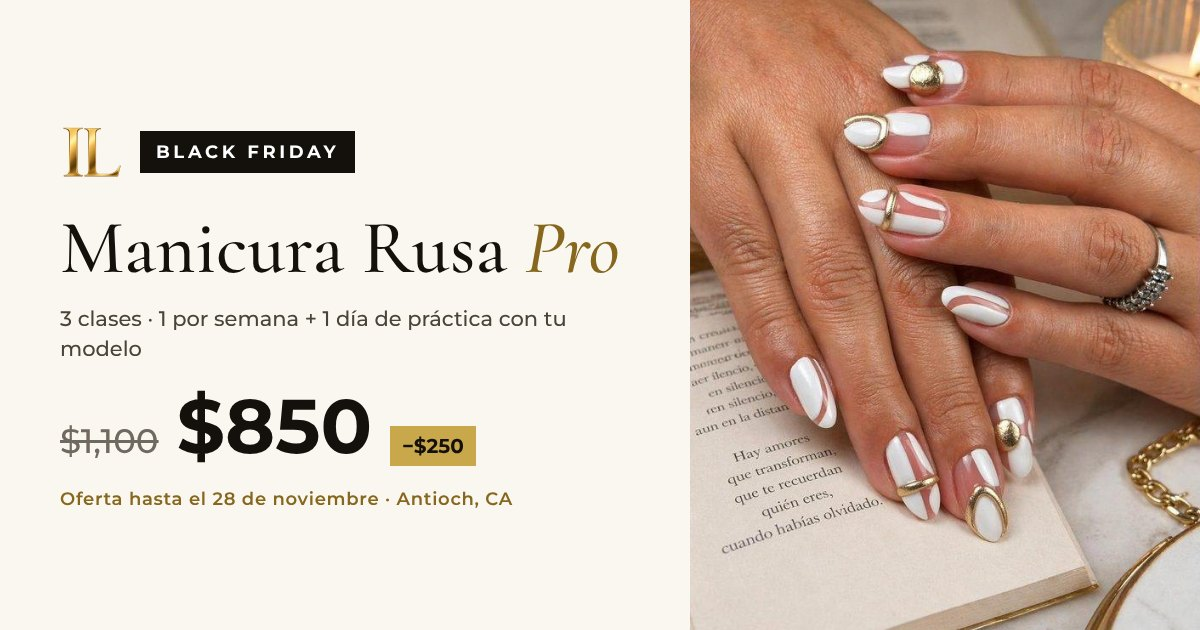
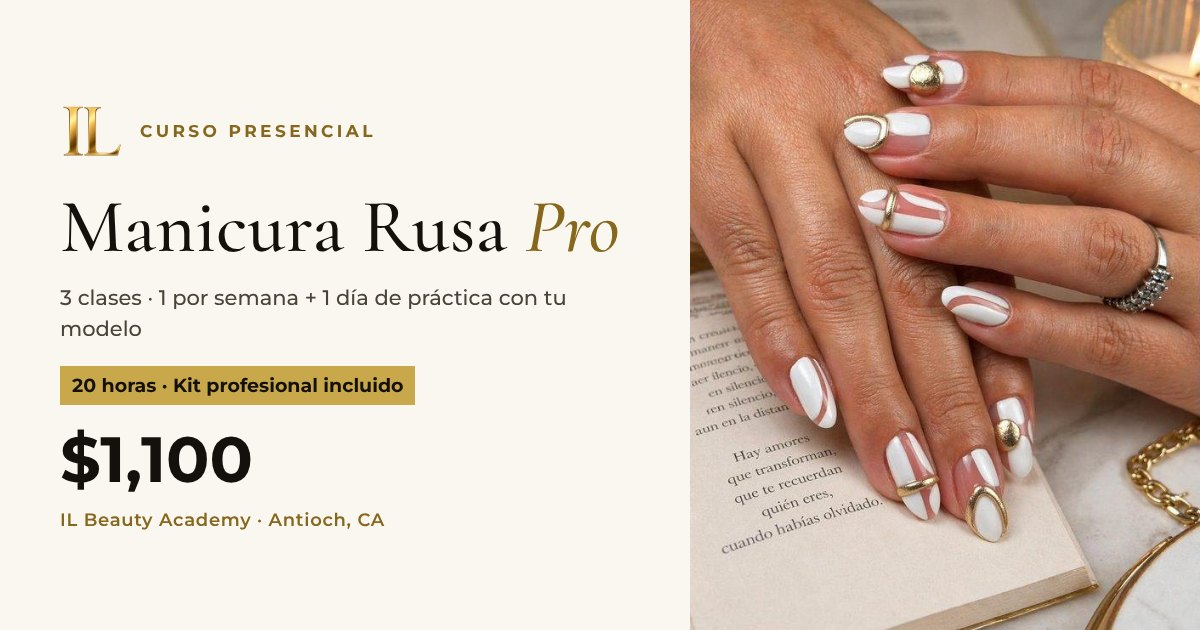
Quitar la promocion de Black Friday (Manicura Rusa Pro a $1,100)
- /manicura-rusa-pro: sin etiqueta, precio tachado, contador, terminos,
  aviso de oferta ni pregunta de Black Friday; precio $1,100; WhatsApp
  con el mensaje normal; titulo, descripcion e imagen para compartir sin
  la oferta; ViewContent con valor 1100; barra fija ajustada para que
  quepan el precio y el boton.
- /cursos: se quita la etiqueta 'Black Friday: $850 · Ver oferta'.
- /links: el boton destacado muestra $1,100 y '20 horas de clase y
  practica · Kit incluido'.

Claude-Session: https://claude.ai/code/session_01WgTQiBmTG7qmgM6AnjaGsQ

Changed region(s): [[0.0308, 0.3016, 0.5242, 0.8444], [0.0308, 0.1508, 0.3083, 0.3016]]

diff --git a/manicura-rusa-pro/index.html b/manicura-rusa-pro/index.html
@@ -5,20 +5,20 @@
 <meta name="viewport" content="width=device-width, initial-scale=1.0"/>
 <meta name="color-scheme" content="light only"/>
 <meta name="supported-color-schemes" content="light"/>
-<title>Manicura Rusa Pro · Black Friday $850 · IL Beauty Academy</title>
+<title>Manicura Rusa Pro · IL Beauty Academy</title>
 <link rel="icon" type="image/png" sizes="32x32" href="/img/icon-32.png?v=3"/>
 <link rel="apple-touch-icon" sizes="180x180" href="/img/icon-180.png?v=3"/>
 <meta name="theme-color" content="#14110d"/>
 <meta property="og:type" content="website"/>
 <meta property="og:site_name" content="IL Beauty Academy"/>
-<meta property="og:title" content="Manicura Rusa Pro · Black Friday $850 (antes $1,100)"/>
-<meta property="og:description" content="3 clases (1 por semana) + 1 día de práctica con tu modelo. Oferta hasta el sábado 28 de noviembre."/>
+<meta property="og:title" content="Manicura Rusa Pro · IL Beauty Academy"/>
+<meta property="og:description" content="20 horas de clase y práctica · 3 clases (1 por semana) + 1 día de práctica con tu modelo · Kit profesional incluido."/>
 <meta property="og:url" content="https://ilbeautyacademy.com/manicura-rusa-pro/"/>
-<meta property="og:image" content="https://ilbeautyacademy.com/img/og-manicura-rusa-pro.jpg"/>
+<meta property="og:image" content="https://www.ilbeautyacademy.com/img/og-manicura-rusa-pro.jpg?v=2"/>
 <meta property="og:image:width" content="1200"/>
 <meta property="og:image:height" content="630"/>
 <meta name="twitter:card" content="summary_large_image"/>
-<meta name="description" content="Black Friday: Manicura Rusa Pro de $1,100 a $850. 3 clases (1 por semana) + 1 día de práctica con tu modelo en Antioch, CA. Oferta hasta el 28 de noviembre."/>
+<meta name="description" content="Curso de Manicura Rusa Pro en Antioch, CA: 20 horas de clase y práctica, 3 clases (1 por semana) + 1 día de práctica con tu modelo. Kit profesional incluido. $1,100."/>
 <link href="https://fonts.googleapis.com/css2?family=Cormorant+Garamond:ital,wght@0,300;0,400;0,500;0,600;1,300;1,400;1,500&family=Montserrat:wght@300;400;500;600;700&display=swap" rel="stylesheet"/>
 <style>
   :root{
@@ -307,6 +307,7 @@
   }
   .bf-deposit{font-size:.95rem;line-height:1.6;color:var(--ink);background:#fff;border:1px dashed var(--gold);padding:.65rem .9rem;margin:-.4rem 0 1.4rem;max-width:520px;}
   .bf-deposit strong{font-weight:700;}
+  @media (max-width:768px){ .bf-sticky .bf-sticky-txt{white-space:normal;min-width:0;font-size:.88rem;line-height:1.3;} .bf-sticky .bf-sticky-btn{flex:none;} }
 </style>
 <link rel="stylesheet" href="/typography.css?v=2"/>
 <link rel="stylesheet" href="/site.css?v=19"/>
@@ -321,7 +322,7 @@ t.src=v;s=b.getElementsByTagName(e)[0];s.parentNode.insertBefore(t,s)}(window,
 document,'script','https://connect.facebook.net/en_US/fbevents.js');
 fbq('init',window.IL_PIXEL_ID);
 fbq('track','PageView');
-fbq('track','ViewContent',{content_name:'Manicura Rusa Pro',content_category:'Curso',value:850,currency:'USD'});
+fbq('track','ViewContent',{content_name:'Manicura Rusa Pro',content_category:'Curso',value:1100,currency:'USD'});
 }
 </script>
 <noscript><img height="1" width="1" style="display:none" alt="" src="https://www.facebook.com/tr?id=1121499000759709&ev=PageView&noscript=1"/></noscript>
@@ -345,41 +346,27 @@ fbq('track','ViewContent',{content_name:'Manicura Rusa Pro',content_category:'Cu
 </nav>
 
 <main class="bf">
-<!-- OFERTA BLACK FRIDAY: MANICURA RUSA PRO -->
+<!-- MANICURA RUSA PRO -->
 <section class="bf-hero">
   <div class="wrap bf-grid">
     <div class="bf-photo">
       <img src="/img/manicura-rusa.jpg?v=2" alt="Manicura Rusa Pro en IL Beauty Academy" width="600" height="800" fetchpriority="high"/>
-      <span class="bf-badge bf-on">Black Friday</span>
     </div>
     <div class="bf-info">
-      <span class="eyebrow">Oferta Black Friday · Antioch, California</span>
+      <span class="eyebrow" data-en="In-person course · Antioch, California">Curso presencial · Antioch, California</span>
       <h1 class="display">Manicura Rusa <em>Pro</em></h1>
       <p class="bf-highlight">20 horas de clase y práctica · Kit profesional incluido (valor $125)</p>
       <p class="bf-format">3 clases · 1 día por semana · 5 horas por día<br/><strong>+ 1 día extra de práctica en la academia con tu modelo</strong></p>
-      <div class="bf-price bf-on"><span class="bf-old">$1,100</span><span class="bf-new">$850</span><span class="bf-save">Ahorras $250</span></div>
-      <div class="bf-price bf-off"><span class="bf-new">$1,100</span></div>
+      <div class="bf-price"><span class="bf-new">$1,100</span></div>
       <p class="bf-deposit" data-en="💳 Save your spot with &lt;strong&gt;$200&lt;/strong&gt;. Pay the rest no later than your second class.">💳 Separa tu cupo con <strong>$200</strong>. El resto lo pagas a más tardar en tu segunda clase.</p>
       <div class="bf-flex">
         <div class="bf-flex-items"><span>📅 Tú eliges cuándo empezar</span><span>👩🏫 Clase personalizada o grupal</span></div>
         <p>El curso comienza cuando tú te inscribas. Elige tu día de clase y lo ajustamos a tu horario, en clase personalizada o en grupo.</p>
       </div>
-      <div class="bf-count bf-on" aria-live="polite">
-        <div class="bf-count-label">La oferta termina en</div>
-        <div class="bf-boxes">
-          <div><b data-u="d">00</b><span>Días</span></div>
-          <div><b data-u="h">00</b><span>Horas</span></div>
-          <div><b data-u="m">00</b><span>Min</span></div>
-          <div><b data-u="s">00</b><span>Seg</span></div>
-        </div>
-      </div>
-      <div class="bf-ended bf-off"><strong>La oferta de Black Friday terminó.</strong> Escríbenos para conocer las próximas fechas y promociones.</div>
       <div class="bf-ctas">
-        <a class="btn btn-gold bf-on" href="https://wa.me/19253908288?text=Hola%2C%20quiero%20reservar%20Manicura%20Rusa%20Pro%20con%20el%20descuento%20de%20Black%20Friday%20(%24850)" target="_blank" rel="noopener">Reservar con descuento</a>
-        <a class="btn btn-gold bf-off" href="https://wa.me/19253908288?text=Hola%2C%20quiero%20reservar%20mi%20lugar%20en%20Manicura%20Rusa%20Pro" target="_blank" rel="noopener">Reservar por WhatsApp</a>
+        <a class="btn btn-gold" href="https://wa.me/19253908288?text=Hola%2C%20quiero%20reservar%20mi%20lugar%20en%20Manicura%20Rusa%20Pro" target="_blank" rel="noopener">Reservar por WhatsApp</a>
         <a class="btn btn-ghost" href="sms:+19253908288">Enviar texto · (925) 390-8288</a>
       </div>
-      <p class="bf-terms bf-on">Oferta válida hasta el sábado 28 de noviembre de 2026, 11:59 PM (hora de California). Cupos limitados.</p>
     </div>
   </div>
 </section>
@@ -452,10 +439,8 @@ fbq('track','ViewContent',{content_name:'Manicura Rusa Pro',content_category:'Cu
       </div>
     </div>
     <div class="bf-bottom reveal">
-      <div class="bf-price bf-on"><span class="bf-old">$1,100</span><span class="bf-new">$850</span></div>
       <div class="bf-ctas bf-center">
-        <a class="btn btn-gold bf-on" href="https://wa.me/19253908288?text=Hola%2C%20quiero%20reservar%20Manicura%20Rusa%20Pro%20con%20el%20descuento%20de%20Black%20Friday%20(%24850)" target="_blank" rel="noopener">Reservar con descuento</a>
-        <a class="btn btn-gold bf-off" href="https://wa.me/19253908288?text=Hola%2C%20quiero%20reservar%20mi%20lugar%20en%20Manicura%20Rusa%20Pro" target="_blank" rel="noopener">Reservar por WhatsApp</a>
+        <a class="btn btn-gold" href="https://wa.me/19253908288?text=Hola%2C%20quiero%20reservar%20mi%20lugar%20en%20Manicura%20Rusa%20Pro" target="_blank" rel="noopener">Reservar por WhatsApp</a>
         <a class="btn btn-ghost" href="sms:+19253908288">Enviar texto · (925) 390-8288</a>
       </div>
       <a class="bf-all" href="/cursos/">Ver todos los cursos →</a>
@@ -524,9 +509,8 @@ fbq('track','ViewContent',{content_name:'Manicura Rusa Pro',content_category:'Cu
       <details class="faq"><summary>¿Cuánto duran las clases? <span class="plus">+</span></summary><div class="ans">3 clases, una por semana, de 5 horas cada una, más 1 día extra de práctica en la academia con tu propia modelo.</div></details>
       <details class="faq"><summary>¿Qué incluye? <span class="plus">+</span></summary><div class="ans">20 horas de clase y práctica. Kit profesional, manual de estudio, materiales de práctica, certificado de participación, coffee break y apoyo después del curso.</div></details>
       <details class="faq"><summary>¿Tengo que llevar modelo? <span class="plus">+</span></summary><div class="ans">Solo para el día extra de práctica.</div></details>
-      <details class="faq"><summary>¿Hasta cuándo es el precio de Black Friday? <span class="plus">+</span></summary><div class="ans">Hasta el sábado 28 de noviembre de 2026 a las 11:59 PM (hora de California).</div></details>
       <details class="faq"><summary data-en="How do I pay? &lt;span class=&quot;plus&quot;&gt;+&lt;/span&gt;">¿Cómo pago? <span class="plus">+</span></summary><div class="ans" data-en="Save your spot with $200 and pay the rest no later than your second class. We are flexible with how you pay.">Separas tu cupo con $200 y el resto lo pagas a más tardar en tu segunda clase. Somos flexibles con la forma de pago.</div></details>
-      <details class="faq"><summary>¿Cómo reservo mi lugar? <span class="plus">+</span></summary><div class="ans">Escríbenos por WhatsApp al <a href="https://wa.me/19253908288?text=Hola%2C%20quiero%20reservar%20Manicura%20Rusa%20Pro%20con%20el%20descuento%20de%20Black%20Friday%20(%24850)" target="_blank" rel="noopener">(925) 390-8288</a>.</div></details>
+      <details class="faq"><summary>¿Cómo reservo mi lugar? <span class="plus">+</span></summary><div class="ans">Escríbenos por WhatsApp al <a href="https://wa.me/19253908288?text=Hola%2C%20quiero%20reservar%20mi%20lugar%20en%20Manicura%20Rusa%20Pro" target="_blank" rel="noopener">(925) 390-8288</a>.</div></details>
     </div>
   </div>
 </section>
@@ -534,28 +518,10 @@ fbq('track','ViewContent',{content_name:'Manicura Rusa Pro',content_category:'Cu
 
 <!-- Barra fija para reservar (solo celular) -->
 <div class="bf-sticky" role="region" aria-label="Reservar">
-  <span class="bf-sticky-txt bf-on">$850 · Black Friday</span>
-  <span class="bf-sticky-txt bf-off">Manicura Rusa Pro · $1,100</span>
-  <a class="bf-sticky-btn bf-on" href="https://wa.me/19253908288?text=Hola%2C%20quiero%20reservar%20Manicura%20Rusa%20Pro%20con%20el%20descuento%20de%20Black%20Friday%20(%24850)" target="_blank" rel="noopener">Reservar con descuento</a>
-  <a class="bf-sticky-btn bf-off" href="https://wa.me/19253908288?text=Hola%2C%20quiero%20reservar%20mi%20lugar%20en%20Manicura%20Rusa%20Pro" target="_blank" rel="noopener">Reservar por WhatsApp</a>
+  <span class="bf-sticky-txt">Manicura Rusa Pro · $1,100</span>
+  <a class="bf-sticky-btn" href="https://wa.me/19253908288?text=Hola%2C%20quiero%20reservar%20mi%20lugar%20en%20Manicura%20Rusa%20Pro" target="_blank" rel="noopener">Reservar por WhatsApp</a>
 </div>
 
-<script>
-/* Conteo regresivo: la oferta termina el sábado 28/11/2026 a las 11:59:59 PM hora de California */
-(function(){
-  var END=Date.parse('2026-11-29T07:59:59Z');
-  var els={};[].forEach.call(document.querySelectorAll('.bf-boxes b'),function(b){els[b.getAttribute('data-u')]=b;});
-  function pad(n){return (n<10?'0':'')+n;}
-  function tick(){
-    var left=END-Date.now();
-    if(left<=0){document.body.classList.add('bf-over');clearInterval(t);return;}
-    var s=Math.floor(left/1000);
-    els.d.textContent=pad(Math.floor(s/86400));els.h.textContent=pad(Math.floor(s%86400/3600));
-    els.m.textContent=pad(Math.floor(s%3600/60));els.s.textContent=pad(s%60);
-  }
-  var t=setInterval(tick,1000);tick();
-})();
-</script>
 
 
 <!-- FOOTER -->

diff --git a/cursos/index.html b/cursos/index.html
@@ -440,7 +440,6 @@ fbq('track','PageView');
           <h3>Manicura Rusa Pro</h3>
           <div class="course-sub">3 días (1 por semana) · 5 horas por día + 1 día de práctica con modelo</div>
           <div class="course-price">$1,100</div>
-          <a class="bf-chip bf-on" href="/manicura-rusa-pro/">Black Friday: $850 · Ver oferta →</a>
           <p class="course-short">Perfecciona la técnica de Manicura Rusa más solicitada del momento, ideal tanto para quienes comienzan como para profesionales que buscan refinar su trabajo. Aprenderás preparación impecable de la uña, uso experto del torno, nivelación con gel y aplicación bajo cutícula con resultados de salón. Una formación práctica para elevar la calidad y la precisión de tu trabajo.</p>
           <input type="checkbox" id="curriculum-toggle" class="curriculum-check"/>
           <label for="curriculum-toggle" class="curriculum-btn">
@@ -725,10 +724,6 @@ fbq('track','PageView');
 })();
 /* Cerrar menú móvil al tocar un enlace */
 document.querySelectorAll('.nav-links a').forEach(function(a){a.addEventListener('click',function(){document.getElementById('navtog').checked=false;});});
-</script>
-<script>
-/* Oculta la etiqueta de Black Friday cuando termina la oferta (28/11/2026 11:59 PM, California) */
-if(Date.now()>Date.parse('2026-11-29T07:59:59Z'))document.body.classList.add('bf-over');
 </script>
 <script>
 /* Video de la sección de graduadas: se carga y reproduce solo cuando está a la vista */

diff --git a/links/index.html b/links/index.html
@@ -80,7 +80,7 @@ fbq('track','PageView');
   <nav class="links" aria-label="Enlaces">
     <a class="btn featured" href="https://www.ilbeautyacademy.com/manicura-rusa-pro/" data-title="Manicura Rusa Pro">
       <span class="ic" aria-hidden="true">💅</span>
-      <span class="tx"><span class="tt">Manicura Rusa Pro <span class="tag">$850</span></span><span class="st">Oferta Black Friday · hasta el 28 de noviembre</span></span>
+      <span class="tx"><span class="tt">Manicura Rusa Pro <span class="tag">$1,100</span></span><span class="st">20 horas de clase y práctica · Kit incluido</span></span>
       <span class="ar" aria-hidden="true">›</span>
     </a>
     <a class="btn" href="https://www.ilbeautyacademy.com/" data-title="Página web">
